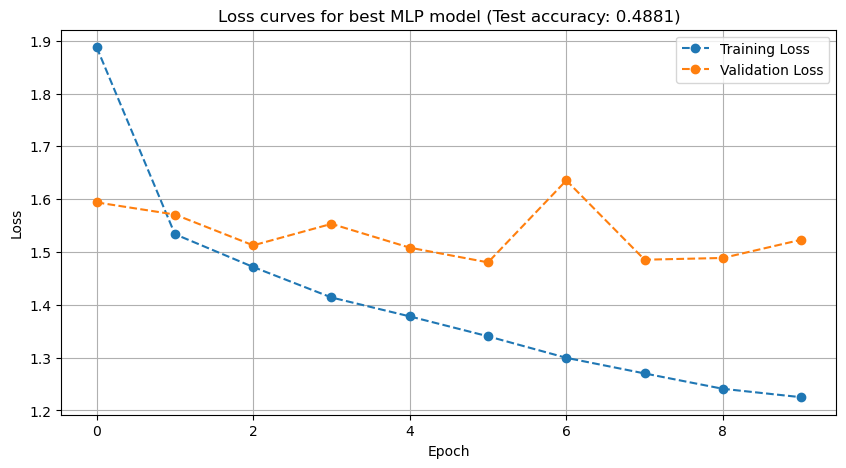
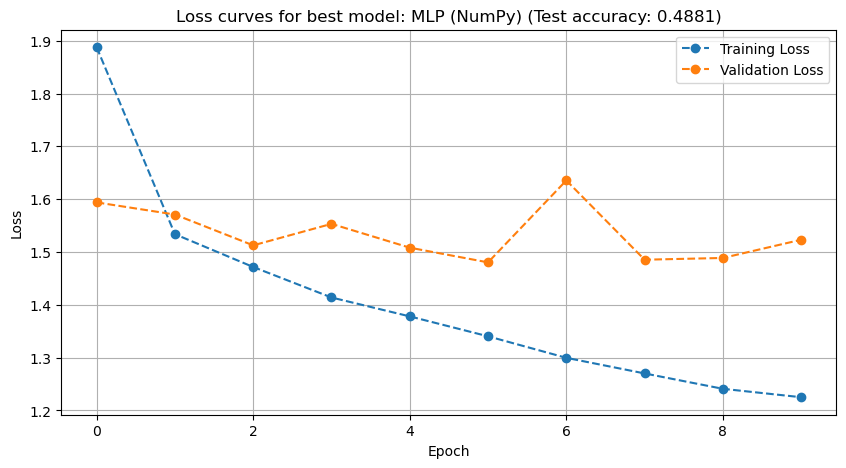
Minor

Changed region(s): [[0.2151, 0.0, 0.8605, 0.0598]]

diff --git a/assignment_1_13677640/train_mlp_numpy.py b/assignment_1_13677640/train_mlp_numpy.py
@@ -317,7 +317,7 @@ if __name__ == '__main__':
     ax.plot(logging_dict["epochs"], logging_dict["train_loss"], "--o", label="Training Loss")
     ax.plot(logging_dict["epochs"], logging_dict["val_loss"], "--o", label="Validation Loss")
     ax.grid()
-    ax.set_title(f"Loss curves for best MLP model (Test accuracy: {logging_dict['best_test_accuracy']:.4f})")
+    ax.set_title(f"Loss curves for best model: MLP (NumPy) (Test accuracy: {logging_dict['best_test_accuracy']:.4f})")
     ax.set_xlabel("Epoch")
     ax.set_ylabel("Loss")
     plt.legend()
